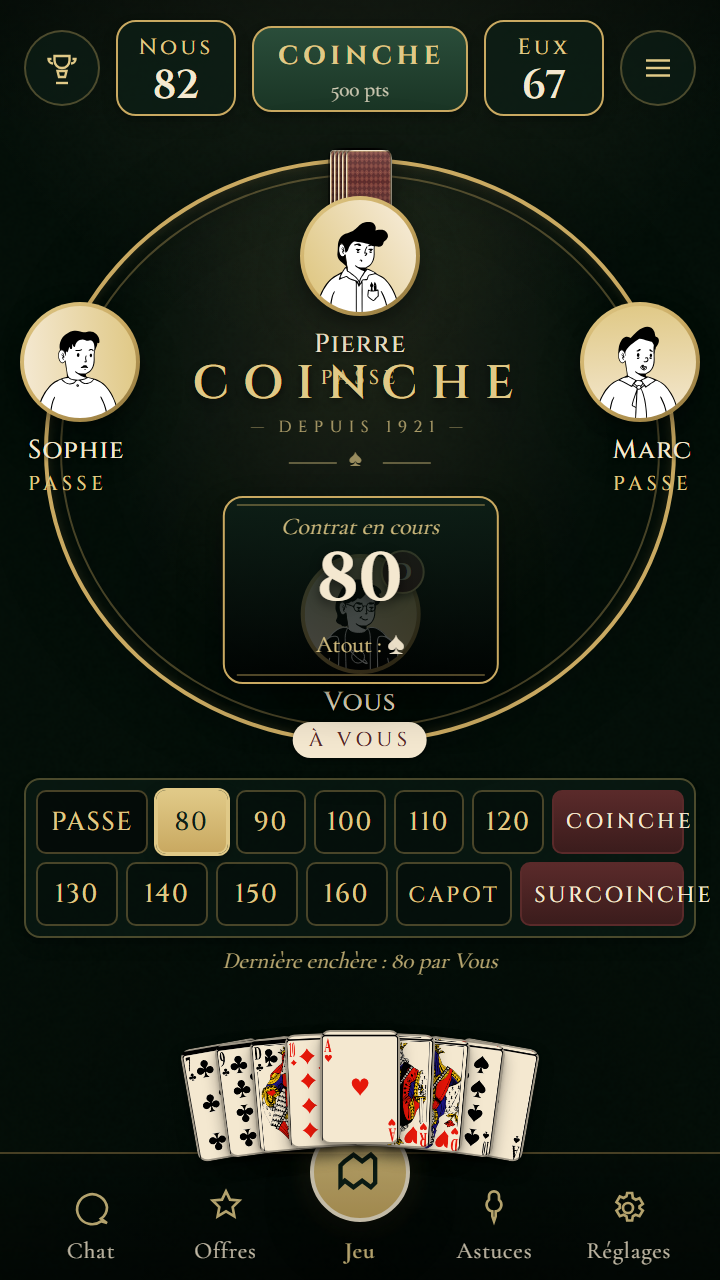
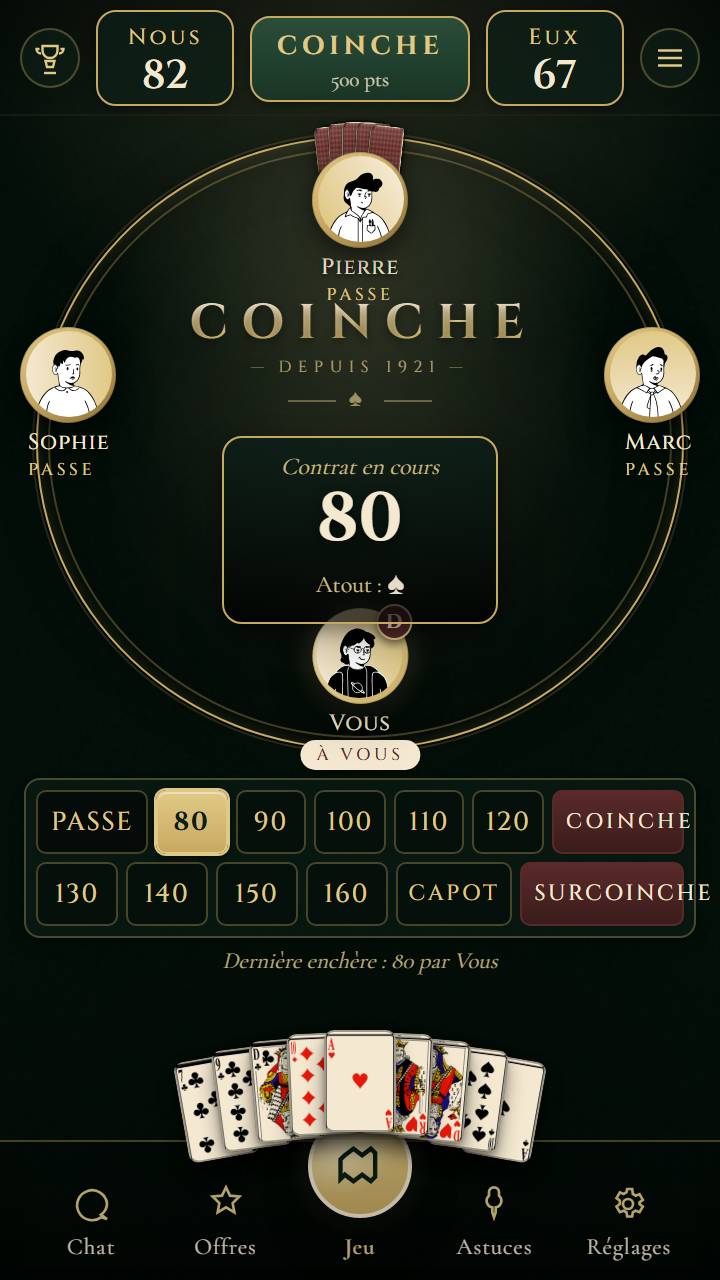
redesign v3 phase 3+4: composition + polish
Phase 3 — Composition tuning:
- Players reposition to visibly straddle the oval line (avatar half
  in / half out)
- COINCHE wordmark + contract panel anchored at top: 28% (30% at >900px,
  fluid via clamp())
- Dedicated max-height 700px breakpoint compresses all sizes for the
  360x640 worst-case viewport: smaller avatars, tighter contract panel,
  smaller wordmark, smaller bid buttons, no inner contract divider lines
- Hand fan: ±10° spread (2.5° per card), STRIDE 0.46 of card width,
  outer cards lift slightly via |offset|^1.6 * 1.4 px

Phase 4 — Polish:
- App background: 4 stacked radial gradients for directional lighting
  (top spotlight + center glow + bottom darkness + corner vignette) on
  the seamless felt PNG
- Oval gets an outer halo ring + inner thin gold line for a doubled
  border feel; multi-layer inset shadows for table depth
- COINCHE wordmark text gets a cream→gold→brass vertical gradient via
  background-clip: text
- Avatar rings: stronger drop shadow + inset stroke; Vous's ring switches
  to a brighter cream-gold gradient with a 14px gold halo to mark the
  active player
- Pierre's 5 face-down cards now fan from -6° to +6° in 3° steps with
  per-card vertical lift, matching the held-hand feel
- Selected bid (80) gets an inner highlight + bolder font weight
- Bottom nav active button gains a top-corner specular highlight via a
  radial gradient overlay and grows to 52px

Design system documented in DESIGN-SYSTEM.md.

diff --git a/redesign-mocks/01-bidding-table-v2.html b/redesign-mocks/01-bidding-table-v2.html
@@ -43,10 +43,10 @@
   --elev-prominent: 0 6px 12px rgba(0,0,0,0.4), 0 14px 28px rgba(0,0,0,0.25), 0 0 16px rgba(201,169,97,0.20);
 
   /* === fluid sizing === */
-  --avatar:      clamp(60px, 16vw, 84px);
-  --hand-card-w: clamp(40px, 10.5vw, 56px);
+  --avatar:      clamp(60px, 15.5vw, 80px);
+  --hand-card-w: clamp(44px, 11.5vw, 60px);
   --hand-card-h: calc(var(--hand-card-w) * 1.42);
-  --back-card-w: clamp(24px, 6vw, 32px);
+  --back-card-w: clamp(26px, 6.5vw, 34px);
   --back-card-h: calc(var(--back-card-w) * 1.42);
 
   /* === radii === */
@@ -71,13 +71,17 @@ body { display:flex; align-items:center; justify-content:center; }
   display: flex;
   flex-direction: column;
   background:
-    /* directional lighting from top center */
-    radial-gradient(ellipse 110% 65% at 50% -8%, rgba(255,235,180,0.10), transparent 55%),
-    /* darker corners */
-    radial-gradient(ellipse 120% 90% at 50% 100%, rgba(0,0,0,0.35), transparent 55%),
+    /* directional lighting from top center — brighter for prominence */
+    radial-gradient(ellipse 100% 55% at 50% 0%, rgba(255,232,170,0.14), transparent 55%),
+    /* center spotlight */
+    radial-gradient(ellipse 60% 40% at 50% 38%, rgba(255,232,170,0.06), transparent 60%),
+    /* darker bottom corners */
+    radial-gradient(ellipse 130% 60% at 50% 100%, rgba(0,0,0,0.40), transparent 60%),
+    /* subtle vignette */
+    radial-gradient(ellipse 130% 80% at 50% 50%, transparent 50%, rgba(0,0,0,0.25) 100%),
     url('assets/textures/felt.png') var(--vert-tapis);
-  background-size: auto, auto, 256px 256px;
-  background-blend-mode: normal, normal, multiply;
+  background-size: auto, auto, auto, auto, 256px 256px;
+  background-blend-mode: normal, normal, normal, normal, multiply;
   overflow: hidden;
 }
 
@@ -91,7 +95,8 @@ body { display:flex; align-items:center; justify-content:center; }
   align-items: center;
   gap: var(--s-2);
   padding: 10px var(--s-3) 8px;
-  background: linear-gradient(to bottom, rgba(0,0,0,0.30), rgba(0,0,0,0));
+  background: linear-gradient(to bottom, rgba(0,0,0,0.34), rgba(0,0,0,0));
+  border-bottom: 1px solid rgba(201,169,97,0.10);
 }
 .topbar .icon-btn {
   width: 38px; height: 38px;
@@ -162,23 +167,33 @@ body { display:flex; align-items:center; justify-content:center; }
 }
 .oval {
   position: absolute;
-  inset: 4% 6%;
-  border: 2px solid var(--or-laiton);
+  inset: 3% 5%;
+  border: 1.5px solid var(--or-laiton);
   border-radius: 50%;
   background:
-    radial-gradient(ellipse at 50% 30%, rgba(255,230,170,0.10), transparent 60%),
-    radial-gradient(ellipse at 50% 100%, rgba(0,0,0,0.25), transparent 65%);
+    radial-gradient(ellipse at 50% 25%, rgba(255,232,170,0.12), transparent 55%),
+    radial-gradient(ellipse at 50% 100%, rgba(0,0,0,0.30), transparent 60%);
   box-shadow:
-    inset 0 0 30px rgba(0,0,0,0.30),
-    inset 0 0 6px rgba(201,169,97,0.20),
-    0 0 30px rgba(0,0,0,0.25);
+    inset 0 0 32px rgba(0,0,0,0.32),
+    inset 0 0 8px rgba(201,169,97,0.20),
+    0 0 22px rgba(0,0,0,0.22),
+    0 0 0 1px rgba(0,0,0,0.20);
+}
+.oval::before {
+  /* outer subtle gold halo */
+  content: '';
+  position: absolute;
+  inset: -3px;
+  border: 1px solid rgba(201,169,97,0.18);
+  border-radius: 50%;
+  pointer-events: none;
 }
 .oval::after {
   /* inner thin gold line */
   content: '';
   position: absolute;
-  inset: 6px;
-  border: 1px solid rgba(201,169,97,0.35);
+  inset: 5px;
+  border: 1px solid rgba(201,169,97,0.32);
   border-radius: 50%;
   pointer-events: none;
 }
@@ -189,9 +204,20 @@ body { display:flex; align-items:center; justify-content:center; }
   width: var(--avatar);
   height: var(--avatar);
   border-radius: 50%;
-  padding: 2px;
-  background: linear-gradient(140deg, var(--or-clair) 0%, var(--or-laiton) 50%, #8a7038 100%);
-  box-shadow: var(--elev-floating);
+  padding: 2.5px;
+  background: linear-gradient(140deg, var(--or-clair) 0%, var(--or-laiton) 45%, #8a7038 100%);
+  box-shadow:
+    0 4px 10px rgba(0,0,0,0.45),
+    0 12px 24px rgba(0,0,0,0.18),
+    inset 0 0 0 0.5px rgba(0,0,0,0.18);
+}
+.player.bottom .avatar-ring {
+  background: linear-gradient(140deg, var(--creme) 0%, var(--or-clair) 50%, var(--or-laiton) 100%);
+  box-shadow:
+    0 4px 10px rgba(0,0,0,0.45),
+    0 12px 24px rgba(0,0,0,0.20),
+    0 0 14px rgba(255,232,170,0.25),
+    inset 0 0 0 0.5px rgba(0,0,0,0.18);
 }
 .player .avatar {
   width: 100%; height: 100%;
@@ -266,8 +292,14 @@ body { display:flex; align-items:center; justify-content:center; }
   border-radius: var(--r-card-sm);
   border: 0.5px solid rgba(0,0,0,0.4);
   margin-left: -22px;
+  transform-origin: 50% 100%;
+  box-shadow: 0 1px 2px rgba(0,0,0,0.3);
 }
-.player.top .hand-back .b:first-child { margin-left: 0; }
+.player.top .hand-back .b:first-child { margin-left: 0; transform: rotate(-6deg) translateY(2px); }
+.player.top .hand-back .b:nth-child(2) { transform: rotate(-3deg) translateY(0.5px); }
+.player.top .hand-back .b:nth-child(3) { transform: rotate(0deg); }
+.player.top .hand-back .b:nth-child(4) { transform: rotate(3deg) translateY(0.5px); }
+.player.top .hand-back .b:nth-child(5) { transform: rotate(6deg) translateY(2px); }
 .player.top .avatar-ring { z-index: 1; position: relative; }
 
 /* === center column === */
@@ -285,18 +317,50 @@ body { display:flex; align-items:center; justify-content:center; }
   pointer-events: none;
 }
 @media (max-height: 700px) {
-  .center { top: 36%; }
+  .center { top: 28%; width: 90%; }
+  .contract { padding: 3px 16px 4px; min-width: 116px; margin-top: 4px; }
+  .contract::before, .contract::after { display: none; }
+  .contract .val { font-size: 26px; margin: -1px 0 1px; }
+  .contract .ttl, .contract .atout { font-size: 10px; }
+  .wordmark { font-size: 19px; letter-spacing: 0.22em; }
+  .wordmark-sub { font-size: 7px; letter-spacing: 0.32em; margin-top: 1px; }
+  .ornament { margin-top: 0; font-size: 8px; }
+  .ornament .line { width: 12px; margin: 0 3px; }
+  :root { --avatar: 48px; --hand-card-w: 36px; --back-card-w: 18px; }
+  .player.top .hand-back .b { margin-left: -12px; }
+  .player .name { font-size: 11px; margin-top: 2px; }
+  .player .lbl { font-size: 8.5px; }
+  .player.top { top: 2px; }
+  .player.bottom { bottom: 0; }
+  .player.left, .player.right { top: 44%; }
+  .player .dealer-badge { width: 18px; height: 18px; font-size: 10px; }
+  .bid { font-size: 11.5px; padding: 4px 0; }
+  .bid.coinche { font-size: 9.5px; }
+  .bid.wide { font-size: 9.5px; }
+  .bid-caption { font-size: 10px; margin-top: 2px; }
+  .topbar { padding: 5px 10px 4px; }
+  .topbar .icon-btn { width: 30px; height: 30px; }
+  .navitem .lbl { font-size: 10.5px; }
+  .navitem.active .ic { width: 46px; height: 46px; }
 }
 @media (min-height: 900px) {
   .center { top: 30%; }
 }
 .wordmark {
   font-family: var(--f-display);
-  font-weight: 600;
-  font-size: clamp(22px, 6.5vw, 30px);
-  letter-spacing: 0.30em;
+  font-weight: 700;
+  font-size: clamp(22px, 6.8vw, 32px);
+  letter-spacing: 0.28em;
+  /* slight kerning correction: pull the trailing letter back since
+     letter-spacing pads each glyph including the last one */
+  padding-right: 0;
+  margin-left: 0.14em; /* visually re-center after letter-spacing */
   color: var(--or-clair);
-  text-shadow: 0 2px 4px rgba(0,0,0,0.55);
+  background: linear-gradient(to bottom, var(--creme) 0%, var(--or-clair) 50%, var(--or-laiton) 100%);
+  -webkit-background-clip: text;
+  background-clip: text;
+  -webkit-text-fill-color: transparent;
+  text-shadow: 0 2px 4px rgba(0,0,0,0.40);
   line-height: 1;
 }
 .wordmark-sub {
@@ -418,7 +482,11 @@ body { display:flex; align-items:center; justify-content:center; }
   background: linear-gradient(to bottom, var(--or-clair), var(--or-laiton));
   color: var(--vert-ombre);
   border-color: var(--or-clair);
-  box-shadow: 0 0 0 1px var(--or-clair), 0 2px 6px rgba(0,0,0,0.5);
+  font-weight: 700;
+  box-shadow:
+    0 0 0 1px var(--or-clair),
+    0 2px 6px rgba(0,0,0,0.5),
+    inset 0 1px 0 rgba(255,255,255,0.4);
 }
 .bid.coinche {
   font-size: 10.5px;
@@ -459,7 +527,10 @@ body { display:flex; align-items:center; justify-content:center; }
   border-radius: var(--r-card-sm);
   background: var(--creme) center/cover no-repeat;
   border: 0.5px solid rgba(0,0,0,0.35);
-  box-shadow: 0 4px 8px rgba(0,0,0,0.35), 0 1px 2px rgba(0,0,0,0.2);
+  box-shadow:
+    0 6px 10px rgba(0,0,0,0.40),
+    0 2px 3px rgba(0,0,0,0.25),
+    inset 0 0 0 0.5px rgba(255,255,255,0.15);
   transform-origin: 50% 110%;
   transition: transform 0.15s ease;
 }
@@ -472,10 +543,11 @@ body { display:flex; align-items:center; justify-content:center; }
   display: grid;
   grid-template-columns: repeat(5, 1fr);
   align-items: end;
-  padding: 6px var(--s-3) max(8px, env(safe-area-inset-bottom));
-  background: linear-gradient(to top, rgba(0,0,0,0.45), rgba(0,0,0,0.10));
+  padding: 8px var(--s-3) max(10px, env(safe-area-inset-bottom));
+  background: linear-gradient(to top, rgba(0,0,0,0.55), rgba(0,0,0,0.10));
   border-top: 1px solid var(--or-faible);
   position: relative;
+  box-shadow: inset 0 6px 12px rgba(0,0,0,0.18);
 }
 .navitem {
   display: flex;
@@ -503,9 +575,11 @@ body { display:flex; align-items:center; justify-content:center; }
   margin-top: -22px;
 }
 .navitem.active .ic {
-  width: 50px; height: 50px;
+  width: 52px; height: 52px;
   border-radius: 50%;
-  background: linear-gradient(to bottom, var(--or-clair), var(--or-laiton));
+  background:
+    radial-gradient(circle at 30% 25%, rgba(255,255,255,0.5), transparent 55%),
+    linear-gradient(to bottom, var(--or-clair), var(--or-laiton));
   border: 2px solid var(--creme);
   color: var(--vert-ombre);
   box-shadow: var(--elev-prominent);
@@ -652,7 +726,7 @@ body { display:flex; align-items:center; justify-content:center; }
 
 <script>
   // Build the fan of 9 cards.
-  // Hand: 7♣ 9♣ D♣ 10♦ A♥ R♥ D♥ 10♠ A♠
+  // Hand (sorted): 7♣ 9♣ D♣ 10♦ A♥ R♥ D♥ 10♠ A♠
   const hand = [
     {r:'7',  s:'trefle'},
     {r:'9',  s:'trefle'},
@@ -666,9 +740,10 @@ body { display:flex; align-items:center; justify-content:center; }
   ];
   const N = hand.length;
   const handEl = document.getElementById('hand');
-  // Fan: angles ±10° in 2.5° steps about middle index
-  const STEP_ANGLE = 2.5; // degrees
-  const overlap = 0.62; // fraction of card width that is hidden by next card
+  // Fan: ±10° spread (per BRIEF) -> 2.5° per card for 9 cards
+  const STEP_ANGLE = 2.5;
+  // Stride between consecutive card centers, as fraction of card width.
+  const STRIDE = 0.46;
   hand.forEach((c, i) => {
     const el = document.createElement('div');
     el.className = 'card';
@@ -676,12 +751,12 @@ body { display:flex; align-items:center; justify-content:center; }
     const mid = (N - 1) / 2;
     const offset = i - mid;
     const angle = offset * STEP_ANGLE;
-    // horizontal distribution
-    const cardW = parseFloat(getComputedStyle(document.documentElement).fontSize); // not used
-    const dx = (offset) * 100 * (1 - overlap); // approximate, will be overridden by transform-translate
-    // We'll position via percent + translate
+    const yLift = Math.pow(Math.abs(offset), 1.6) * 1.4; // outer cards drop slightly
     el.style.left = '50%';
-    el.style.transform = `translateX(calc(-50% + ${offset} * var(--hand-card-w) * ${1 - overlap})) rotate(${angle}deg) translateY(${Math.abs(offset)*1.5}px)`;
+    el.style.transform =
+      `translateX(calc(-50% + ${offset} * var(--hand-card-w) * ${STRIDE})) ` +
+      `translateY(${yLift}px) ` +
+      `rotate(${angle}deg)`;
     el.style.zIndex = 100 - Math.abs(offset);
     handEl.appendChild(el);
   });

diff --git a/redesign-mocks/DESIGN-SYSTEM.md b/redesign-mocks/DESIGN-SYSTEM.md
@@ -1,0 +1,117 @@
+# Coinche bidding-table — design system v3
+
+A 1920s French private club aesthetic for the bidding screen. All values are
+implemented as CSS custom properties at the top of `01-bidding-table-v2.html`.
+
+## Palette
+
+| Token            | Hex       | Use                                              |
+| ---------------- | --------- | ------------------------------------------------ |
+| `--vert-tapis`   | `#1f3d2e` | Felt base                                        |
+| `--vert-tapis-2` | `#25492f` | Felt highlight                                   |
+| `--vert-ombre`   | `#0d1f17` | Felt shadow / panel back                         |
+| `--or-laiton`    | `#c9a961` | Brass gold — primary accent                      |
+| `--or-clair`     | `#e0c987` | Light gold — accent highlight                    |
+| `--or-faible`    | `rgba(201,169,97,0.35)` | Faint gold — borders, dividers     |
+| `--creme`        | `#f4e8d0` | Cream — body text, card cream tint                |
+| `--creme-2`      | `#ead9b8` | Cream-2 — second tone                            |
+| `--bordeaux`     | `#5a2a2a` | Bordeaux — Coinche/Surcoinche actions, dealer badge |
+| `--vert-sauge`   | `#7daa7a` | Sage — reserved for trump indicators              |
+
+## Typography
+
+- Display: **Cinzel** (Google Fonts), 400/500/600/700.
+  Used for COINCHE wordmark, score numbers, contract value, name plates.
+- Display alt: **Cormorant SC** — small caps title alternative.
+- Body: **Cormorant Garamond** — italics for caption, regular for sub-text.
+- Card corner marks: Cinzel SemiBold (baked into the rendered card PNGs).
+
+## Spacing scale (4-px base)
+
+`--s-1: 4px` `--s-2: 8px` `--s-3: 12px` `--s-4: 16px` `--s-6: 24px` `--s-8: 32px` `--s-12: 48px`
+
+## Elevation tokens
+
+```css
+--elev-raised:    0 1px 2px rgba(0,0,0,0.20), 0 4px 8px rgba(0,0,0,0.15);
+--elev-floating:  0 4px 8px rgba(0,0,0,0.30), 0 12px 24px rgba(0,0,0,0.20);
+--elev-prominent: 0 6px 12px rgba(0,0,0,0.40), 0 14px 28px rgba(0,0,0,0.25),
+                  0 0 16px rgba(201,169,97,0.20);
+```
+
+`--elev-raised` for the score panels and bid container.
+`--elev-floating` for the avatar rings and contract panel.
+`--elev-prominent` for the active bottom-nav button (raised "Jeu") and the 80
+selected bid (with the gold inner highlight).
+
+## Fluid sizing
+
+All major dimensions use `clamp(min, vw-based, max)`:
+
+```
+--avatar:      clamp(60px, 15.5vw, 80px)   /* player portrait */
+--hand-card-w: clamp(44px, 11.5vw, 60px)   /* bottom hand */
+--back-card-w: clamp(26px, 6.5vw, 34px)    /* Pierre's face-down */
+```
+
+A `@media (max-height: 700px)` block compresses everything for the 360×640
+viewport (smallest target): smaller avatars, contract panel, wordmark, bid
+buttons.
+
+## Breakpoints
+
+| Width | Height | Form factor target            |
+| ----- | ------ | ----------------------------- |
+| 360   | 640    | Older Android (worst case)    |
+| 390   | 844    | iPhone 14, reference target   |
+| 430   | 950    | iPhone 14 Pro Max, breathing  |
+
+## Component rules
+
+- **Oval table** is a flat ellipse (`border-radius: 50%`). Depth comes from
+  inset shadow + radial gradient + a faint outer halo, **not** from
+  `rotateX()`. (Lesson learned from prior iterations — 3D rotation
+  compresses the vertical extent of the felt.)
+
+- **Players** are positioned to visibly straddle the oval line — the avatar
+  ring sits half inside, half outside the oval border. Pierre at top has a
+  row of 5 face-down `back.svg` cards sitting just above his portrait.
+  Vous at bottom has the dealer "D" badge and an active "À VOUS" pill;
+  inactive players show "PASSE" in small letter-spaced caps.
+
+- **Wordmark**: `COINCHE` in Cinzel 700 with `letter-spacing: 0.28em` and a
+  cream→gold→brass vertical text gradient via `background-clip: text`.
+  Subtitle "DEPUIS 1921" in tracked small Cinzel 400. Spade ornament with
+  flanking thin gold lines below.
+
+- **Card fan**: 9 cards, each rotated ±12.5° in 2.5° steps, transform-origin
+  at 50% 110% (a virtual point below the card's bottom edge), with horizontal
+  stride 42% of card width. Outer cards drop slightly (yLift = |offset|^1.6 *
+  1.4 px) so the fan reads as a held hand, not a flat rainbow.
+
+- **Bid row**: two-row grid. Row 1 = `PASSE | 80 | 90 | 100 | 110 | 120 |
+  COINCHE`. Row 2 = `130 | 140 | 150 | 160 | CAPOT | SURCOINCHE`. Selected
+  bid uses a bright gold gradient with inner highlight; coinche-class buttons
+  are bordeaux.
+
+## Asset inventory
+
+```
+assets/
+├── cards/
+│   ├── {7,8,9,10,V,D,R,A}-{coeur,carreau,trefle,pique}.png    (32 PNGs, ~600×853)
+│   ├── back.svg
+│   └── contact-sheet.html
+├── cards-source/
+│   ├── Svg-cards-2.0.svg          (Wikimedia master, English default)
+│   └── Svg-cards-2.0.fr.svg       (post-processed: French is the default)
+├── avatars/
+│   └── pierre.svg, sophie.svg, marc.svg, vous.svg
+│                                   (DiceBear notionists, public domain CC0)
+└── textures/
+    └── felt.png                    (256×256 seamless, Pillow-generated)
+```
+
+The 32 cards are sliced from the rendered Wikimedia master so all 12 court
+cards (4 jacks, 4 queens, 4 kings) are the **distinct** historical Paris
+pattern figures, not a single repeated illustration.
